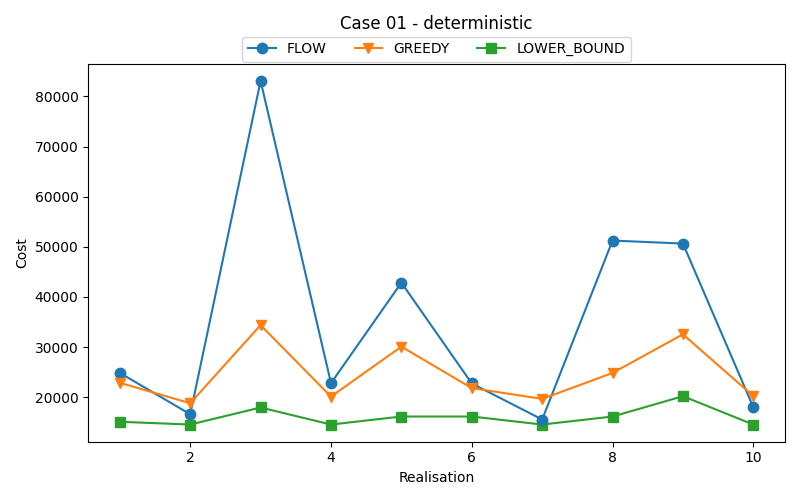
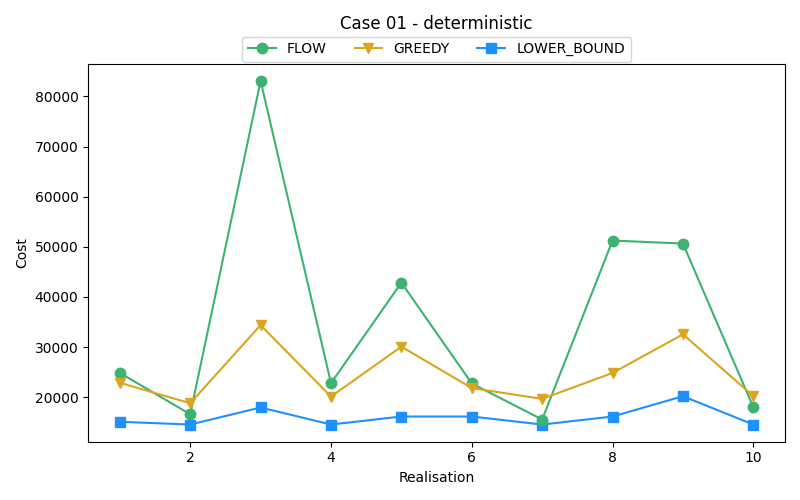
Use nicer colors for plots

diff --git a/scripts/plot.py b/scripts/plot.py
@@ -8,14 +8,17 @@ import re
 # # Use latex
 # os.environ["PATH"] += os.pathsep + '/usr/local/texlive/2024/bin/x86_64-linux'
 
-LINE_MARKER = ['o', 'v', 's', 'x', 'h', 'p', '*', '+']
-NUMBER_OF_COLUMNS_IN_LEGEND = 4
-Y_OFFSET_LEGEND = 1.09
-
+# Directories involved
 RESULTS_BASE_DIR = "../results/notable/28_06"
 SUBFOLDERS = ["deterministic", "real_time"]
 
-# Helper to extract heuristic name from filename
+# Plot settings
+LINE_MARKER = ['o', 'v', 's', 'x', 'h', 'p', '*', '+']
+COLOR_LIST = ['mediumseagreen', 'goldenrod', 'dodgerblue']
+NUMBER_OF_COLUMNS_IN_LEGEND = 4
+Y_OFFSET_LEGEND = 1.09
+
+# Regex patterns to match heuristic names and case numbers
 HEURISTIC_PATTERN = re.compile(r"Case_\d+_[^_]+_(.+)_result\.txt")
 CASE_PATTERN = re.compile(r"Case_(\d+)_")
 
@@ -100,7 +103,7 @@ if __name__ == '__main__':
                 line, = plt.plot(
                     realisations, costs, label=heuristic,
                     marker=LINE_MARKER[idx % len(LINE_MARKER)],
-                    markersize=7.5, color=f'C{idx % 10}'
+                    markersize=7.5, color=COLOR_LIST[idx % len(COLOR_LIST)]
                 )
                 plotted_heuristics[heuristic] = line
             plt.xlabel('Realisation')
